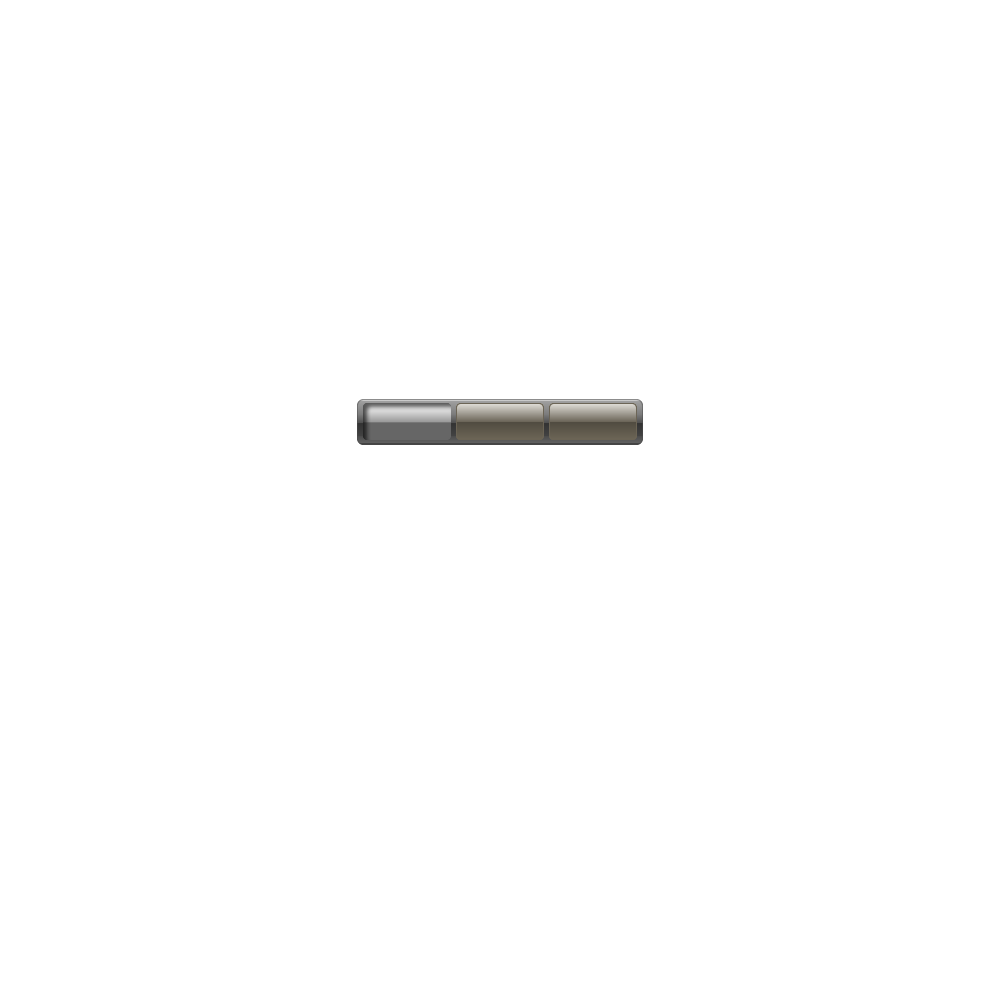
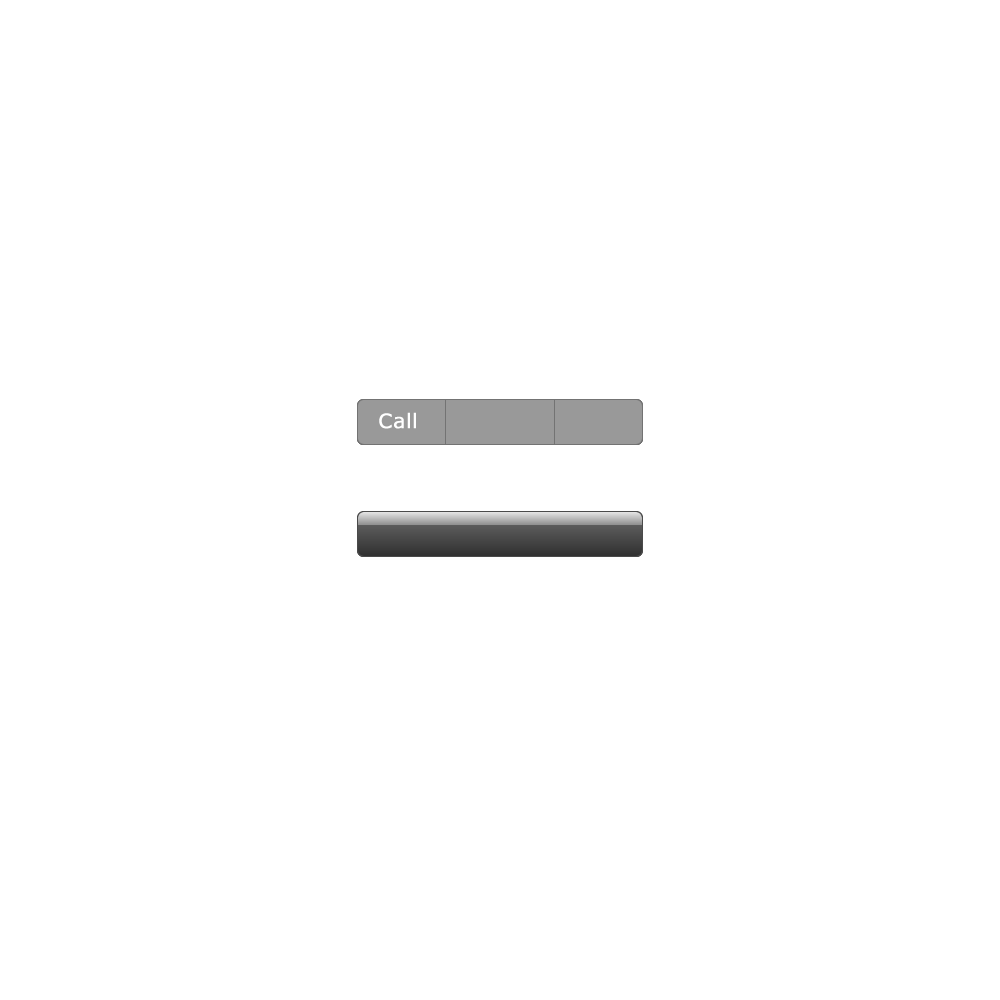
- [DONE] 203. Keep option for removing own review - [DONE] 204. Keep option for removing any reviews as an admin - [NOT an issue] 206. Fix problem with facebook user without email - [DONE] 198. Design review box as FB comment box - [DONE] 207. Fix mobile version - [DONE] 205. Add phone call and map 

Changed region(s): [[0.341, 0.496, 0.651, 0.558], [0.341, 0.403, 0.651, 0.465]]

diff --git a/app/helpers/premium_helper.rb b/app/helpers/premium_helper.rb
@@ -14,6 +14,8 @@ module PremiumHelper
   end
 
   def pt_image_tag(file_name, options = {})
-    image_tag("templates/#{@premium_template.template}/#{file_name}", options)
+    if @premium_template
+      image_tag("templates/#{@premium_template.template}/#{file_name}", options)
+    end
   end
 end
